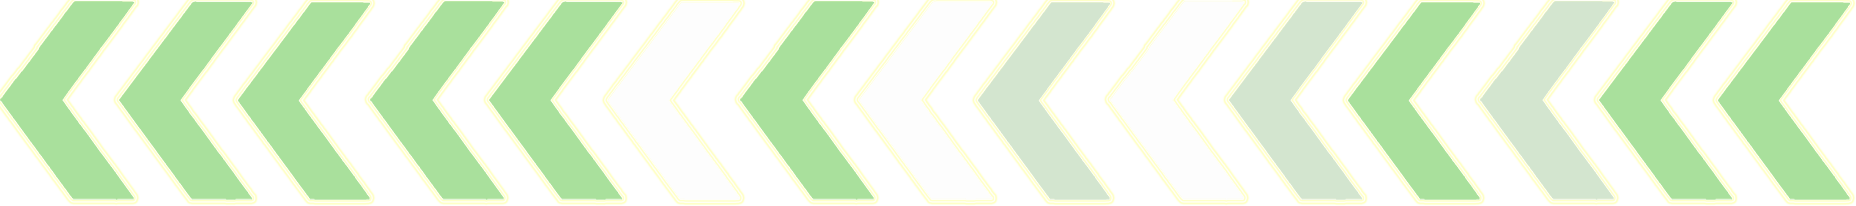
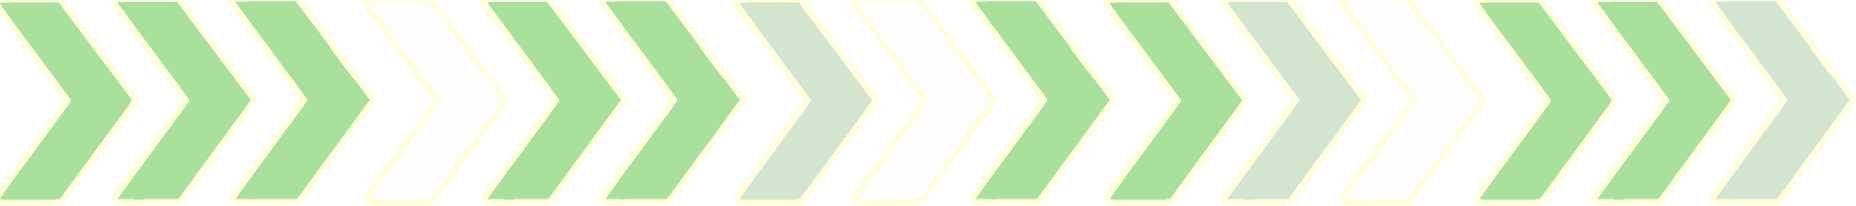
Rewrite arrow

diff --git a/CattleBattle/CattleBattle/ArrowNode.swift b/CattleBattle/CattleBattle/ArrowNode.swift
@@ -9,52 +9,55 @@
 import UIKit
 import SpriteKit
 
-class ArrowNode : SKSpriteNode {
+class ArrowNode: SKSpriteNode {
     
     internal var side: GameModel.Side = .LEFT
+    
     internal var originTex: SKTexture = SKTexture()
-    internal var currentX: CGFloat = 0
     internal var index: Int = 0
     
     struct Constants {
         private static let IMAGE_EXT = ".png"
         private static let ARROW_IDENTIFIER = "arrow"
+        private static let SPRITE_SHEET_LENGTH = 5
+        
+        internal static var arrowTextures = GameModel.Side.allSides.map() { (side) -> [SKTexture] in
+            var spriteSheet = SKTexture(imageNamed: Constants.ARROW_IDENTIFIER + "-" + side.rawValue + Constants.IMAGE_EXT)
+            
+            var x = 1.0 / CGFloat(SPRITE_SHEET_LENGTH)
+            var result = [SKTexture]()
+            
+            for i in 0..<SPRITE_SHEET_LENGTH {
+                var rect = CGRectMake(CGFloat(i) * x, 0, x, 1)
+                result.append(SKTexture(rect: rect, inTexture: spriteSheet))
+            }
+            return result
+        }
     }
     
-    
-    class func launchButton (side: GameModel.Side, index: Int) -> ArrowNode {
-
-        let node = ArrowNode()
-        var Tex = SKTexture(imageNamed: Constants.ARROW_IDENTIFIER + "-" + side.rawValue + Constants.IMAGE_EXT)
-        
-        node.initStatus(Tex, side: side, index: index)
-        node.size = CGSize(width: 120,height: 64)
-        
-        var rect = CGRectMake(node.currentX, 0, 0.2, 1)
-    
-        node.texture = SKTexture(rect: rect, inTexture : Tex)
-        node.name = Constants.ARROW_IDENTIFIER
-        node.alpha = 0.8
-
-        return node
+    class func getTextures(side: GameModel.Side) -> [SKTexture] {
+        return Constants.arrowTextures[find(GameModel.Side.allSides, side)!]
     }
     
+    override init(texture:SKTexture, color:SKColor, size:CGSize) {
+        super.init(texture:texture, color:color, size:size)
+    }
     
-    func initStatus(tex : SKTexture, side : GameModel.Side, index : Int) {
-        originTex = tex
-        currentX = 0
+    init(side: GameModel.Side, index: Int) {
+        super.init()
+        var repeatedAction = SKAction.animateWithTextures(ArrowNode.getTextures(side), timePerFrame: 0.2)
+        self.runAction(SKAction.repeatActionForever(repeatedAction))
+
+        self.size = CGSize(width: 120, height: 64)
         self.side = side
         self.index = index
+        
+        self.name = Constants.ARROW_IDENTIFIER
+        self.alpha = 0.8
+    }
+
+    required init?(coder aDecoder: NSCoder) {
+        super.init(coder: aDecoder)
     }
     
-    func animateArrow() {
-        if currentX < originTex.size().width * 0.8 {
-            currentX += originTex.size().width*0.2
-        } else {
-            currentX = 0
-        }
-        var rect = CGRectMake(currentX / originTex.size().width, 0, 0.2, 1)
-        self.texture = SKTexture(rect: rect, inTexture: originTex)
-    
-    }
 }

diff --git a/CattleBattle/CattleBattle/GameScene.swift b/CattleBattle/CattleBattle/GameScene.swift
@@ -73,16 +73,16 @@ class GameScene: SKScene {
         
 
         for i in 1...5 {
-            var tmpNode = ArrowNode.launchButton(.LEFT, index: i)
+            var tmpNode = ArrowNode(side: .LEFT, index: i)
             var y = (CGFloat)(LAUNCH_Y_TOP - LAUNCH_Y_GAP * (CGFloat)(i-1))
             tmpNode.position = CGPointMake(60, y)
             self.addChild(tmpNode)
         }
         
         for i in 1...5 {
-            var tmpNode = ArrowNode.launchButton(.RIGHT, index: i)
+            var tmpNode = ArrowNode(side: .RIGHT, index: i)
             var y = (CGFloat)(LAUNCH_Y_TOP - LAUNCH_Y_GAP * (CGFloat)(i-1))
-            tmpNode.position = CGPointMake(self.frame.width-60, y)
+            tmpNode.position = CGPointMake(self.frame.width - 60, y)
             self.addChild(tmpNode)
         }
 
@@ -158,13 +158,6 @@ class GameScene: SKScene {
                 
                 if node.position.x < GAME_VIEW_LEFT_BOUNDARY  || node.position.x > GAME_VIEW_RIGHT_BOUNDARY {
                     node.removeFromParent()
-                }
-            }
-            if node.name != nil && node.name == "arrow" {
-                var arrow = node as ArrowNode
-                if numOfFrameUpdated % 10 == 0 {
-                    
-                    arrow.animateArrow()
                 }
             }
         }

diff --git a/CattleBattle/CattleBattle/GameModel.swift b/CattleBattle/CattleBattle/GameModel.swift
@@ -22,7 +22,7 @@ class GameModel {
         case LEFT = "left"
         case RIGHT = "right"
         
-        internal static var allValues = [LEFT, RIGHT]
+        internal static var allSides = [LEFT, RIGHT]
     }
     
     init () {
